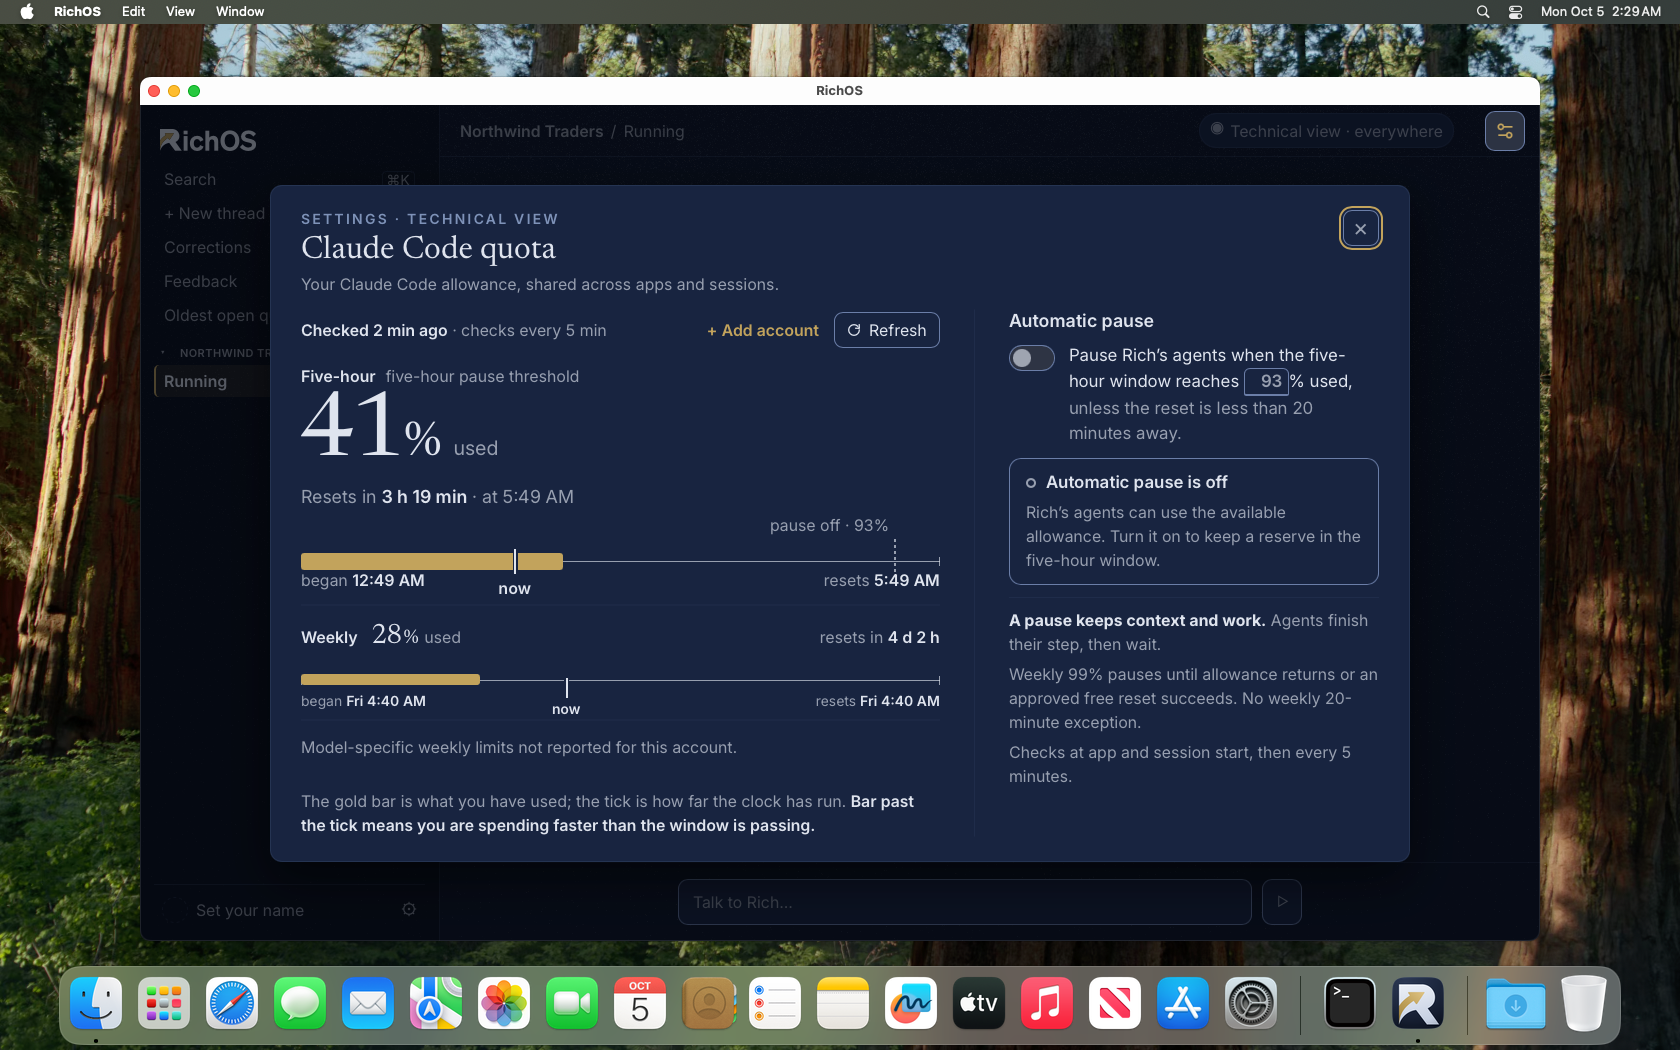
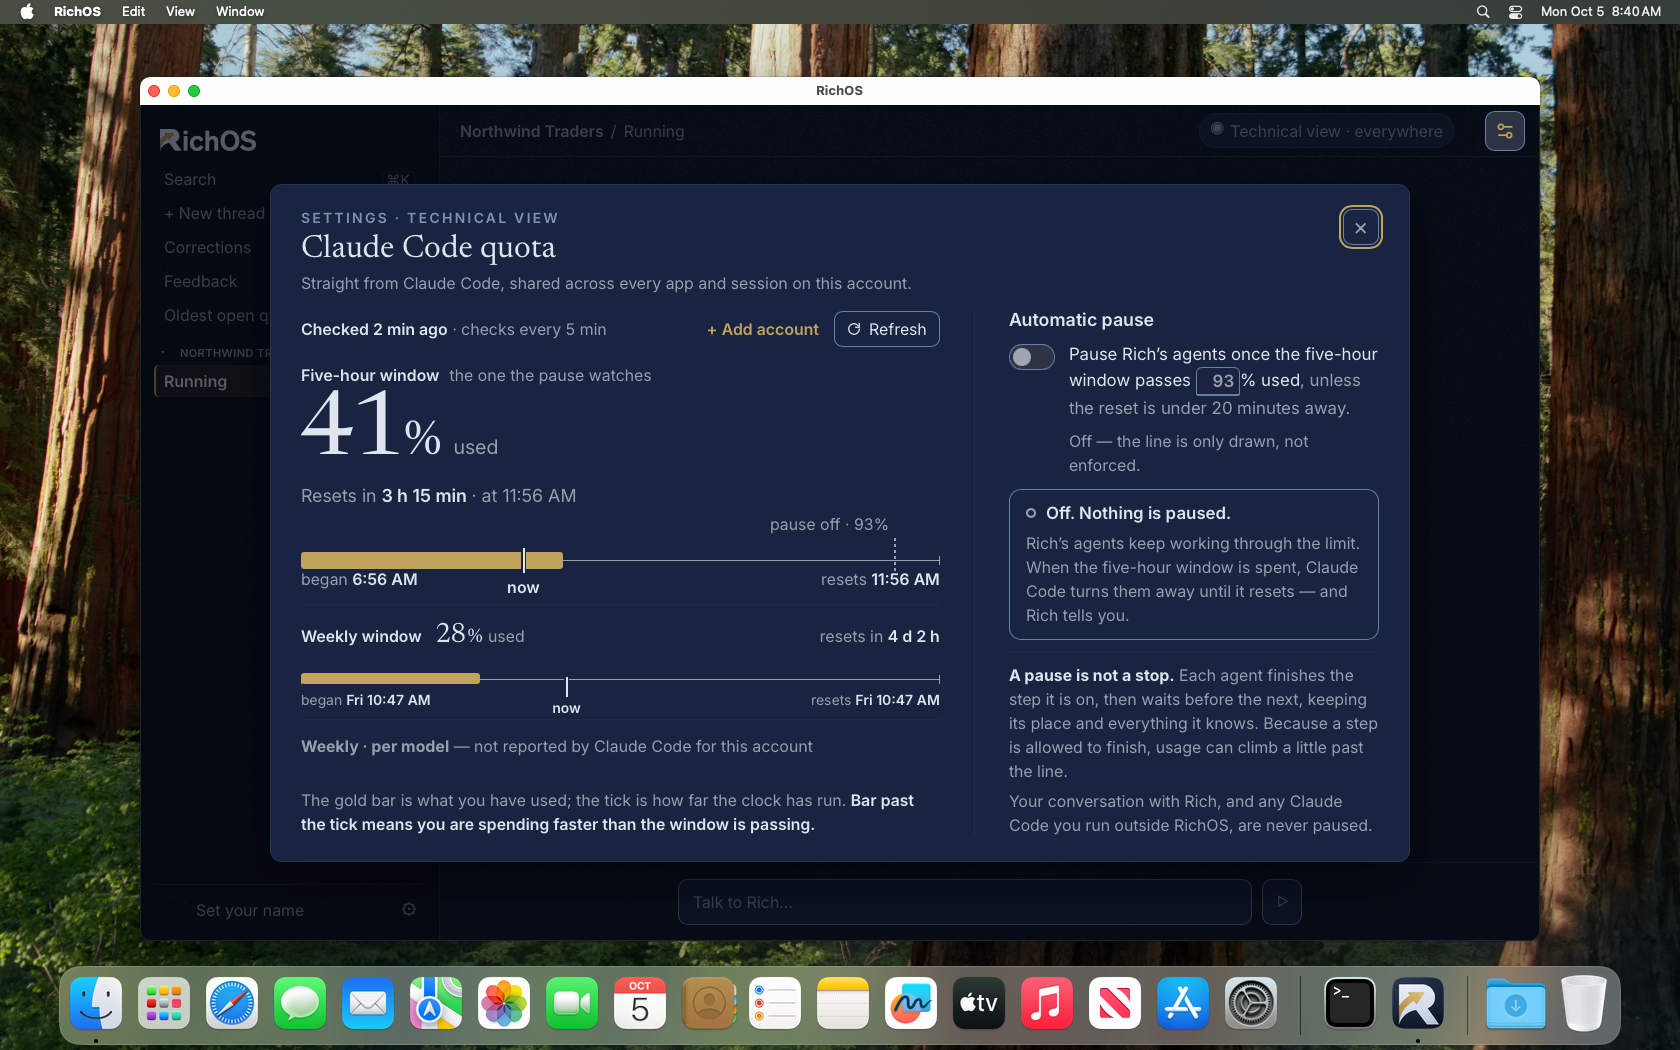
docs/verification: the round-16 panel walk of this branch (walk 6), shots 0, 1 and 5, and the hand-off for the nightly-36 defects
Walk 6 (walk-bf363affa69e, 2026-10-05 08:32:51-08:59:56Z, execution completed, scenario_exit 0,
cleanup_complete true) of the debug build of 84349dba9, its SHA checked inside the binary. New:
0-no-reading-dark/-light (Claude Code answers null, pause on: + Add account offered, nothing
held) beside round 16's own unavailable and hold-no-reading renders, read only from the frozen
mockup. Replaced: 1-one-account (round 16's one-account words, D3) and 5-fast-sheet (the dot at
6.36:1 dark / 3.83:1 light, D2; the reading line in two whole parts, D4). Shots 2, 3, 4, 6 and 7
are kept: this walk's frames of them show the same content. qa/ocr-gate.sh over the six app
frames: 0 of 6, with its positive control.

HANDOFF.md: what each defect's fix does, what the pause does with no reading and why, the
declared differences from round 16, the walk's identity checks and contrast, and that the walked
build predates 6d2319c62 and 64878bb72, which are proven in the browser suite.

diff --git a/docs/verification/2026-10-04-round16-panel-vm/HANDOFF.md b/docs/verification/2026-10-04-round16-panel-vm/HANDOFF.md
@@ -1,8 +1,145 @@
-# Round-16 quota panel: the real app beside round 16, seven states, dark and light
+# Round-16 quota panel: the real app beside round 16, eight states, dark and light
 
-Branch `cc/echo-opus-notice2`, workspace `/Users/alex/ab/richos-wt/echo-opus-notice2`
-(echo-opus-notice2, 2026-10-05; continues echo-opus-panel16e, echo-opus-panel16d,
-echo-opus-panel16c and echo-opus-panel16b).
+Branch `cc/echo-opus-walkfix1`, workspace `/Users/alex/ab/richos-wt/echo-opus-walkfix1`
+(echo-opus-walkfix1, 2026-10-05; continues echo-opus-notice2, echo-opus-panel16e,
+echo-opus-panel16d, echo-opus-panel16c and echo-opus-panel16b).
+
+## The four defects of the nightly-36 walk, fixed (echo-opus-walkfix1)
+
+Ray's walk of candidate 36 (`docs/verification/2026-10-05-nightly-36-candidate-walk.md`) found
+it NOT READY on four defects. Each is fixed on this branch with a test that fails on main's code
+and passes here, and shown in one VM walk of this branch's build.
+
+**D1. A null answer from Claude Code is no reading this time.** Claude Code 2.1.289 sometimes
+answers `get_usage` with `rate_limits_available: true` and `rate_limits: null`. `quota.rs`
+`normalize` now calls that `ReadError::NoReading`. Absent, a string, a number or an empty object is
+still `Malformed`, and the panel still says "could not read" for it. A null answer reports nothing as
+broken and starts no backoff. The next check is counted from it: 5 minutes, or 1 while usage is
+fast. Refresh is never locked: the failure backoff holds only the automatic check (`due`), as round
+16's "Refresh asks sooner" says. + Add account is offered in every state, a reading or not.
+
+**What the pause does when there is no reading, and why.** With the pause on and no current
+reading, new background work waits only while a check is on its way. That is the moment at start,
+or between a reading going out of date and its check coming back (`Admission::Unknown`, round 16's
+"Holding until there is a current reading."). Once that check comes back with no figures (null,
+failed, unreadable or unsupported), `Admission::NoReading` lets work run, and the card says "No
+current reading, so nothing is held." The pause acts on a number and there is none. Waiting would
+hold every new step for as long as Claude Code keeps answering null; on main that was up to the
+gate's 21500 s budget per tool call (5 h 58 min 20 s), again and again. Figures that prove a hold
+still hold until their window resets (`Held` is decided first). Two cases are unchanged and declared
+here:
+- The weekly 99% hold whose reset has expired or is unreadable still waits for a reading of the new
+  week. That is the deliberate rule of `weekly_99_holds_until_fresh_allowance_even_near_five_hour_reset`.
+- A reading stamped in the future is still `Unknown`.
+
+**D2. The fast dot and the signing lane's pulse** breathe by size at full opacity
+(`quota-breathe`, the working row's 9cbdac8ea fix). Measured with `qa/contrast.py --nontext` on this
+walk's frames, box 997,473 14x14 as in Ray's walk: **6.36:1 dark, 3.83:1 light** (Ray measured
+2.11:1 dark). `tests/quota.js` measures the same 6.36:1 and 3.83:1 on the card and the surface, and
+finds no keyframe under opacity 1.
+
+**D3. One account reads round 16's words** in every state round 16 draws for it (quota.html
+`STATES` `entry` ... `fast-one`):
+- the lede, and "Five-hour window" with "the one the pause watches" (no more "Five-hour five-hour
+  pause threshold");
+- "Weekly window", and the absent rows;
+- "No reading yet." with "Ask Claude Code", and the empty state with its smaller second paragraph;
+- the sentence "once the five-hour window passes ... under 20 minutes away." and the two hints;
+- the off, on, hold-no-reading, holding and releasing cards, with the held rows on one line;
+- the boundary text.
+
+Declared differences:
+- + Add account is shown with no reading. Round 16's `unavailable` hides it (quota.html:891), and
+  D1 requires it.
+- The no-reading card itself, and its empty-state wording "answered without its usage figures
+  this time ... RichOS asks again in N min", are not drawn in round 16.
+- "Weekly · per model" stands where round 16 names Sonnet; the app cannot know which model is
+  missing.
+- With two or more accounts, the off card keeps the app's own second sentence. A step Claude Code
+  turns away runs again on the next account with room, which round 16's text does not describe.
+- "every minute" is kept where round 16 says 2 minutes, as before.
+
+**D4. The reading line** is two parts that each stay on one line ("Checked 3 min ago ·" and the
+cadence). Where both do not fit, the cadence moves down whole, and where even one part does not
+fit beside the two buttons, the buttons move down instead. Shot 5 shows "Last reading 1 min ago —
+stale ·" over "every minute — usage is fast". `tests/quota.js` sweeps 860-1680px in 10px steps:
+no lone word, no overflow.
+
+**Found in this branch's own walk and fixed after it (`6d2319c62`, `64878bb72`).** The walk showed
+the D4 kind twice more:
+- round 16's hint "Off — the line is only drawn, not / enforced." (shot 1; round 16's own render
+  wraps it the same way, `0-no-reading-round16-unavailable-light`);
+- the new card's "RichOS asks again in 3 / min." (shot 0).
+
+Their last two words now stay together, tested at every width. The empty state's second paragraph
+now has round 16's 16px ink-soft (6.08:1 dark / 6.22:1 light on the surface). **The walked build
+is `84349dba9`, before these two commits.** Shots 0 and 1 show those two wraps and the old
+paragraph size. The two commits are proven in the browser suite (red on `84349dba9`'s UI, green
+here), not in a second walk.
+
+### This branch's walk (walk 6)
+
+`walk-bf363affa69e`, 2026-10-05 08:32:51-08:59:56Z: `execution: completed`, `scenario_exit: 0`,
+`cleanup_complete: true`, 1622 s (boot 36 s, scenario 1582 s). The guest slot was free; it waited
+0 s. The app was the debug build of `84349dba9`, built with `RICHOS_SOURCE_SHA` set to it, using
+walk 4's recipe below with this branch's own `round16-panel-walk.sh`. The engine was
+`v1.2.0-nightly.20261005.36`'s `richos-engine-1.2.0.tar.gz`. The build exited 1 at the updater
+signature only, as before. Identity was checked on the bundle, not assumed:
+- the binary carries `84349dba9b042d1b26945a2cd2622b71b790726e` once;
+- it carries D1's "Claude Code answered without its usage figures just now." once, and main's
+  "Could not refresh Claude Code quota" zero times;
+- `cmp` finds `ui-dist/quota.js`, `style.css` and `mock.js` identical to the branch's, staged at
+  09:32:03 local time, the build's minute.
+
+The walk's log, read rather than assumed, says for state 0: "+ Add account offered with no
+reading", "Ask Claude Code offered", "the card says nothing is held". No step "never appeared".
+`qa/ocr-gate.sh` over the six app frames committed here: "0 of 6 frame(s) carry something that must
+not ship", with its positive control.
+
+State 0 text on this walk's frames (`qa/contrast.py`), dark / light:
+- reading line 12.06 / 18.07;
+- + Add account 6.36 / 6.65;
+- Ask Claude Code 12.06 / 18.07;
+- "Nothing to show yet." 5.78 / 6.33;
+- empty body 12.06 / 18.07;
+- card head 12.06 / 18.07, card body 5.78 / 6.33;
+- Refresh now 12.06 / 18.07;
+- hint 5.78 / 6.33.
+
+All pass AA 4.5:1. No exemption is claimed.
+
+Shot 5 in this walk shows the fast state with the five-hour line unmoved at 93%. The fixture's
+rise measured 13% to 16% in about a minute this time; §108's point is 100 − 3 = 97, which is above
+93, so the line correctly stays. The weekly line moved to 98%. Walk 3's shot showed 19% to 28%
+and a moved line. Both are the fixture's timing, not a change in the rule.
+
+### Commits on this branch (echo-opus-walkfix1), oldest first
+
+- `2bb7359ad` quota.rs/gate.rs: a null answer is `NoReading`; `empty_at`; the pause holds only
+  while a check is on its way. Test `a_null_usage_answer_is_no_reading_this_time_and_never_locks_or_holds`.
+  Red on main through a check written against main's API: Malformed, "retry_at set 599 s out",
+  "could not read", "admission Unknown". README total 1781.
+- `1fb1c8cf5` D2: the keyframes breathe by size only. Red on main: opacities [0.35, 0.35].
+- `a6d621b6a` D1 and D3 on the panel, mock.js, the state registry (affordances.js exit 0). Red on
+  main: "+ Add account is offered with no reading", the lede, "Refresh is never locked by a backoff".
+- `459acae33` D4. Red on main: "usage is" / "fast" at 960px and others.
+- `84349dba9` testvm: the fake answers `rate_limits: null` for `{"null": true}` (fixture test 11
+  ok); the walk's state 0.
+- `6d2319c62` the hint and the no-reading card keep their last two words together.
+- `64878bb72` the empty state's second paragraph is round 16's.
+- This hand-off's commit: shots 0 (new, with round 16's `unavailable` and `hold-no-reading`
+  renders), 1 and 5 (replaced). Shots 2, 3, 4, 6 and 7 are not replaced: this walk's frames of
+  them show the same content as the accepted ones.
+
+### Proof
+
+- `reserve.py -- cargo test -p richos-core --lib -- quota claude_accounts work_host`: 150 passed
+  (at `2bb7359ad`).
+- `node ui/tests/quota.js`: 31 PASS, 0 FAIL (at `64878bb72`).
+- `node ui/tests/affordances.js`: exit 0 (at `6d2319c62`; `64878bb72` adds no string).
+- `scripts/testvm/test/fake-claude-fill-first.test.py`: 11 ok.
+
+## The states before this branch (echo-opus-notice2 and earlier)
 Design: richos-hq `design/mockups/rounds/round-16/` (frozen, read only). Each `N-<state>-dark.png` /
 `-light.png` here is the real app in the test VM; each `N-<state>-round16-*.png` beside it is
 round 16's render of that state.
@@ -46,11 +183,13 @@ turn and above "• 3 agents working on Work", as round 16 draws it.
 
 | Shot | Round 16 state | Verdict |
 |------|----------------|---------|
-| 1 one account | `low` | **Matches.** + Add account beside Refresh (the circular arrow), "Checked … · checks every 5 min", round 16's times, the ruler key with its bold sentence. |
+| 0 no reading (walk 6, new) | `unavailable`, `hold-no-reading` | **Matches, with declared differences.** Claude Code answers null; pause on. "No reading yet." beside **+ Add account** and "Ask Claude Code", "Nothing to show yet." with "answered without its usage figures this time", the card "No current reading, so nothing is held." Declared: + Add account (round 16 hides it here; D1), the card and the empty-state wording (not drawn in round 16). The walked build predates `6d2319c62` and `64878bb72` (the card's "3 / min." and the paragraph size, above). |
+| 1 one account (walk 6, replaced) | `low` | **Matches.** Round 16's one-account words: the lede, "Five-hour window the one the pause watches", "Weekly window", the sentence, the hint, "Off. Nothing is paused." and its body, the boundary. "Weekly · per model — not reported" is the fixture (no model windows). The walked build predates `6d2319c62`: "not / enforced." wraps here as in round 16's own render. Walk 3's shot showed round 14's words (D3 of the nightly-36 walk). |
 | 2 two accounts | `two` | **Matches.** Home in use 41% / 28%, Work next at **10% / 20%**, the one sentence with Pause, no scrollbar. Home has no Remove (item 1, kept). |
 | 3 switched sheet | `switched` | **Matches.** Work **in use**, Home past its line at 95% with **no tag** and "week resets Fri", "switch to the next account — none has room now", the card "In use: Work, since …". |
 | 4 switched line | `switched-line` | **Matches.** Rich's line "Switched to Work — Home reached 95% of its five-hour window. Nothing stopped." is on screen while the turn on Work runs ("Working for 27s" dark, "51s" light), then "**• 3 agents working on Work**" below it with round 16's gold dot, in the message column (walk 5, `32852260c`). The user's message and the running turn sit above the line because the row exists only during a turn (below). |
-| 5 fast sheet | `fast-switch` | **Matches, with one declared difference.** The card says round 16's sentence: "3 agents reading at once took Work's five-hour window from 19% to 28% in 1 minute. The lines moved to 91% and 97% …". The moved lines carry their ghosts ("switch at 91% · was 93%", "switches at 97% · was 99%"), and + Add account and Refresh keep their row. Declared: "every minute" where round 16 says "every 2 min" (the app's measured interval, quota.rs `note_speed`). The sheet scrolls about 24 px because the VM's window is 1400 × 864 pt (the app's log: "derived 1400x864"), while round 16 draws at 1440 × 900. |
+| 5 fast sheet (walk 6, replaced) | `fast-switch` | **Matches.** The dot at full gold, 6.36:1 dark / 3.83:1 light (D2); the reading line in two whole parts (D4); this walk's measured rise left the five-hour line at 93% (above). Walk 3's record of this shot follows. |
+| 5 fast sheet (walk 3, as recorded then) | `fast-switch` | **Matches, with one declared difference.** The card says round 16's sentence: "3 agents reading at once took Work's five-hour window from 19% to 28% in 1 minute. The lines moved to 91% and 97% …". The moved lines carry their ghosts ("switch at 91% · was 93%", "switches at 97% · was 99%"), and + Add account and Refresh keep their row. Declared: "every minute" where round 16 says "every 2 min" (the app's measured interval, quota.rs `note_speed`). The sheet scrolls about 24 px because the VM's window is 1400 × 864 pt (the app's log: "derived 1400x864"), while round 16 draws at 1440 × 900. |
 | 6 fast alert | `fast-alert` | **Matches.** Rich's alert "Usage is climbing fast: **3 agents reading at once** took Work's five-hour window from 10% to 13% in 2 minutes …", then a turn with the chip and "• 3 agents working on Work" in the message column. Above it, the switch line from state 4. |
 | 7 back to normal | `normal-again` | **Matches.** Rich's line "Usage is back to normal. I'm checking every 5 minutes again, and the lines are back at 93% and 99%.", then a turn with the chip and "• 3 agents working on Work" in the message column. |
 
